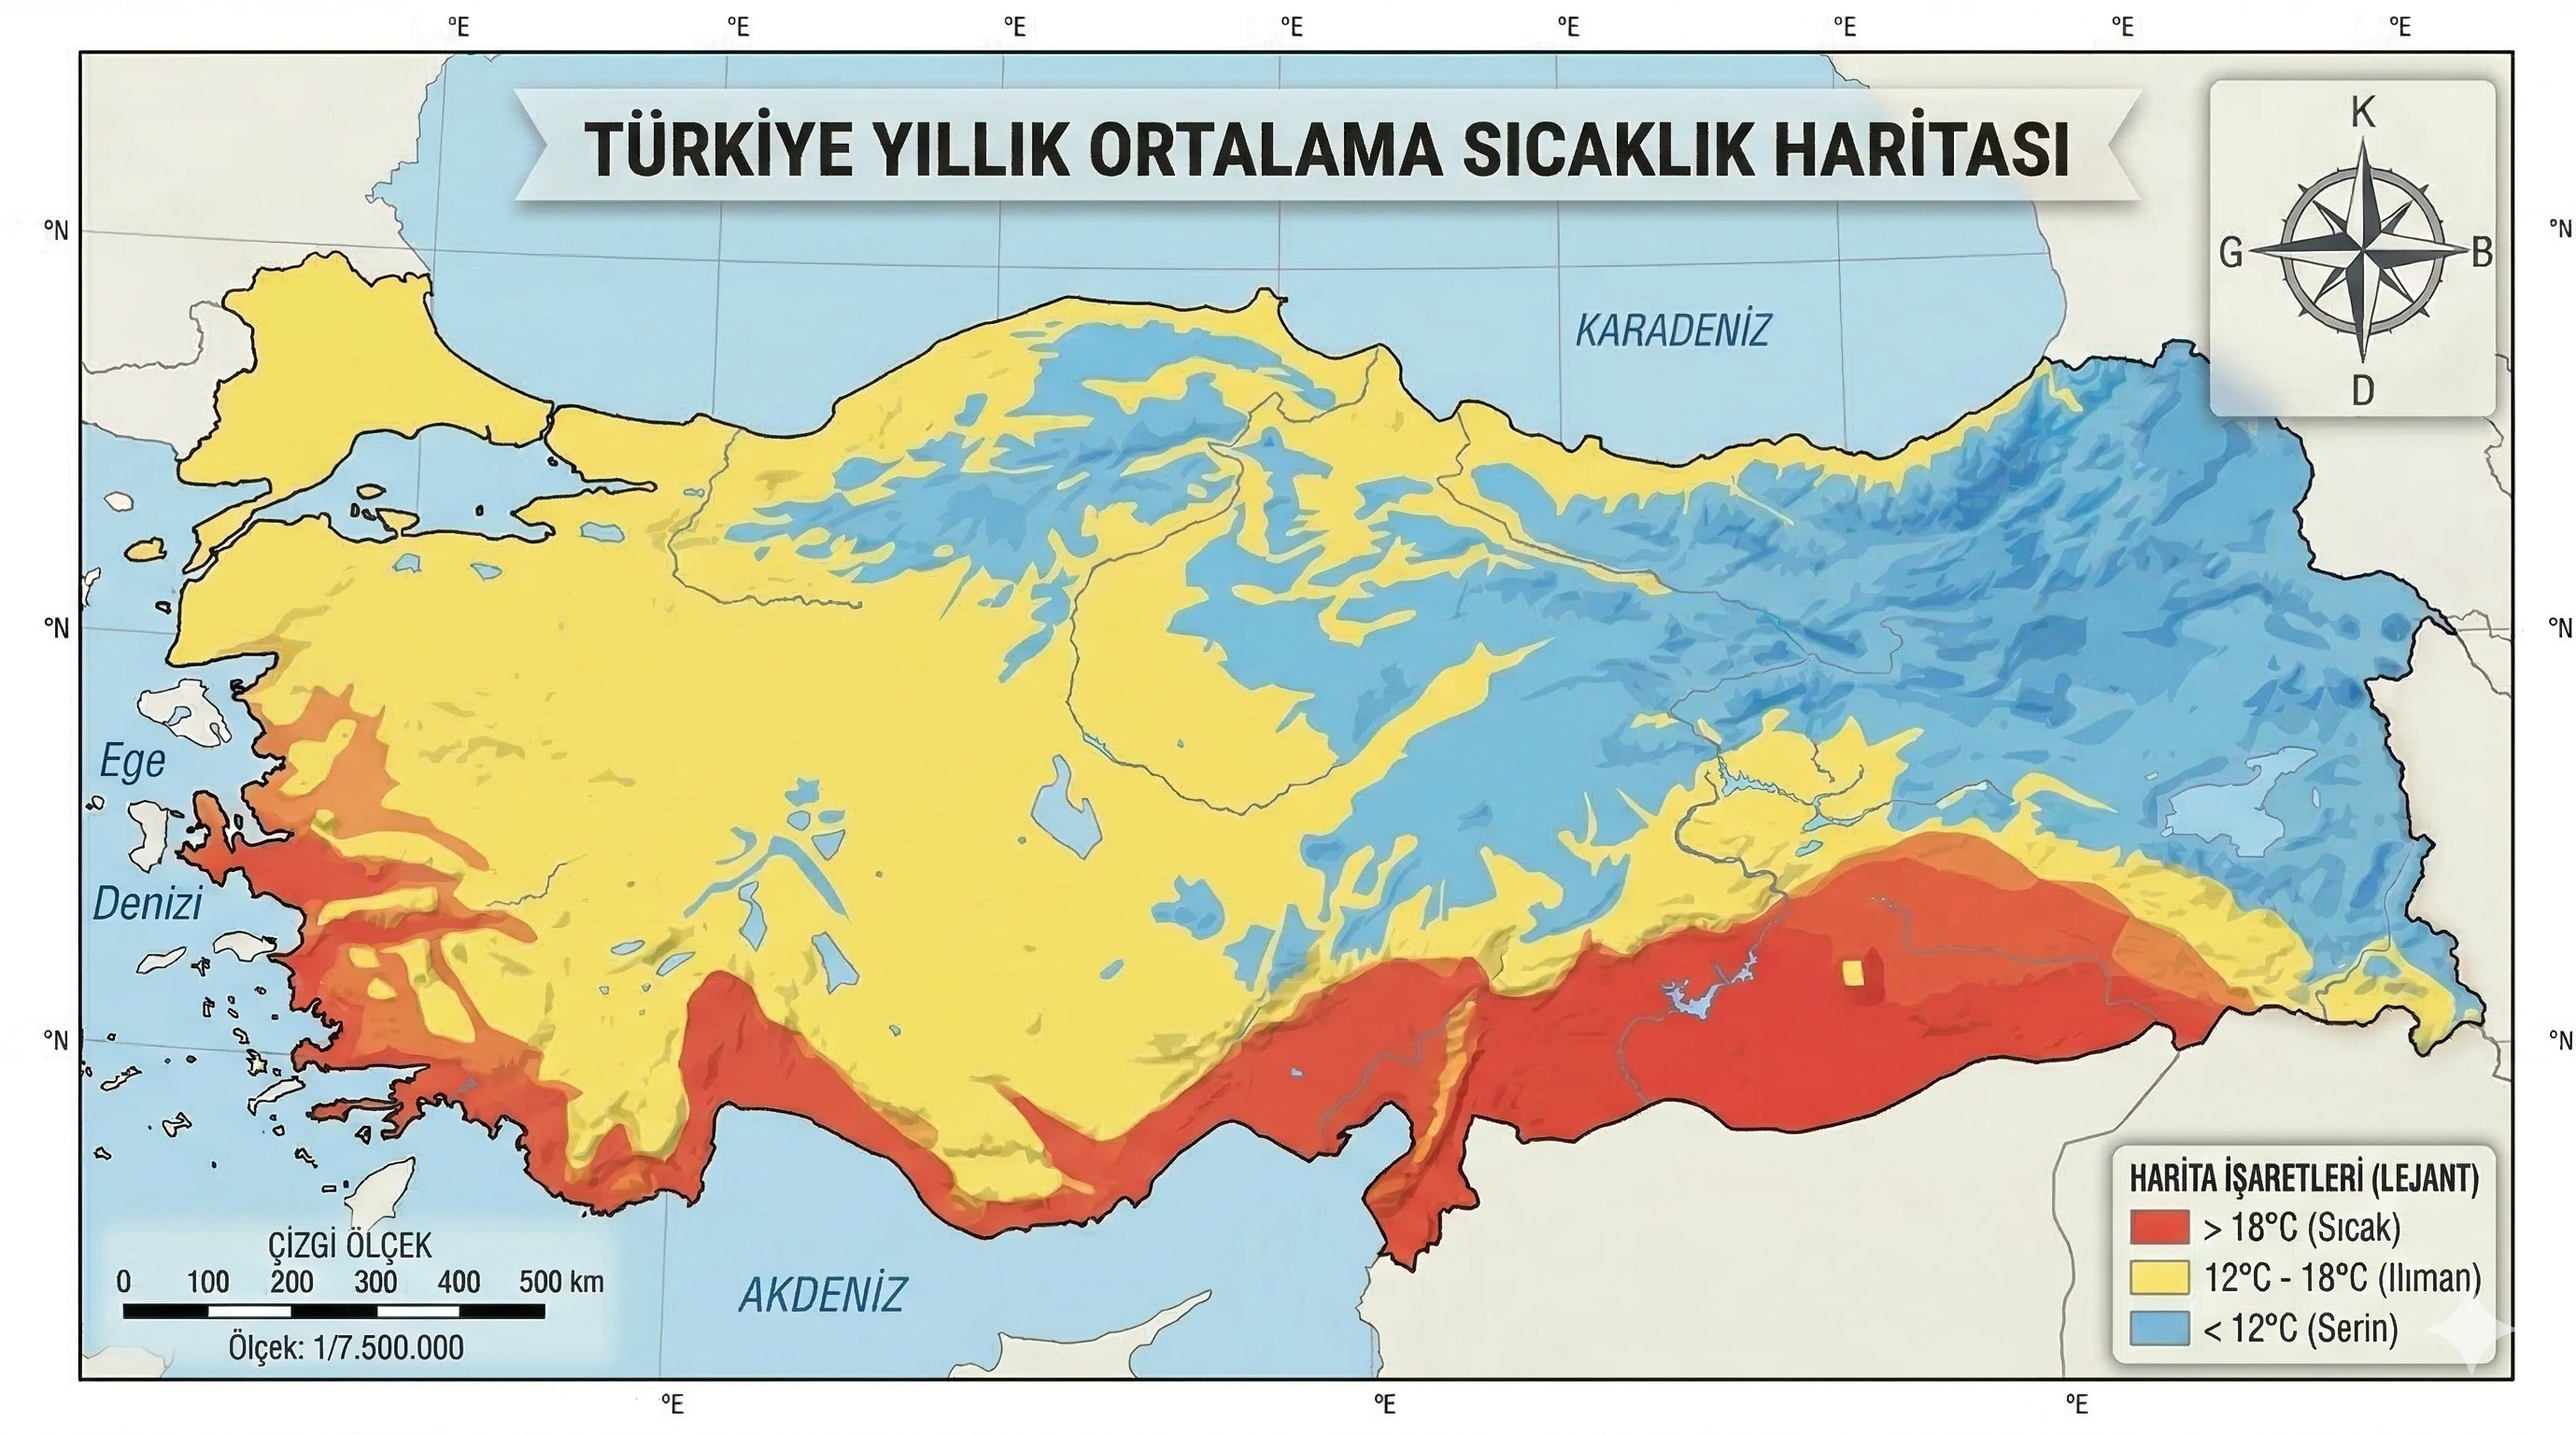
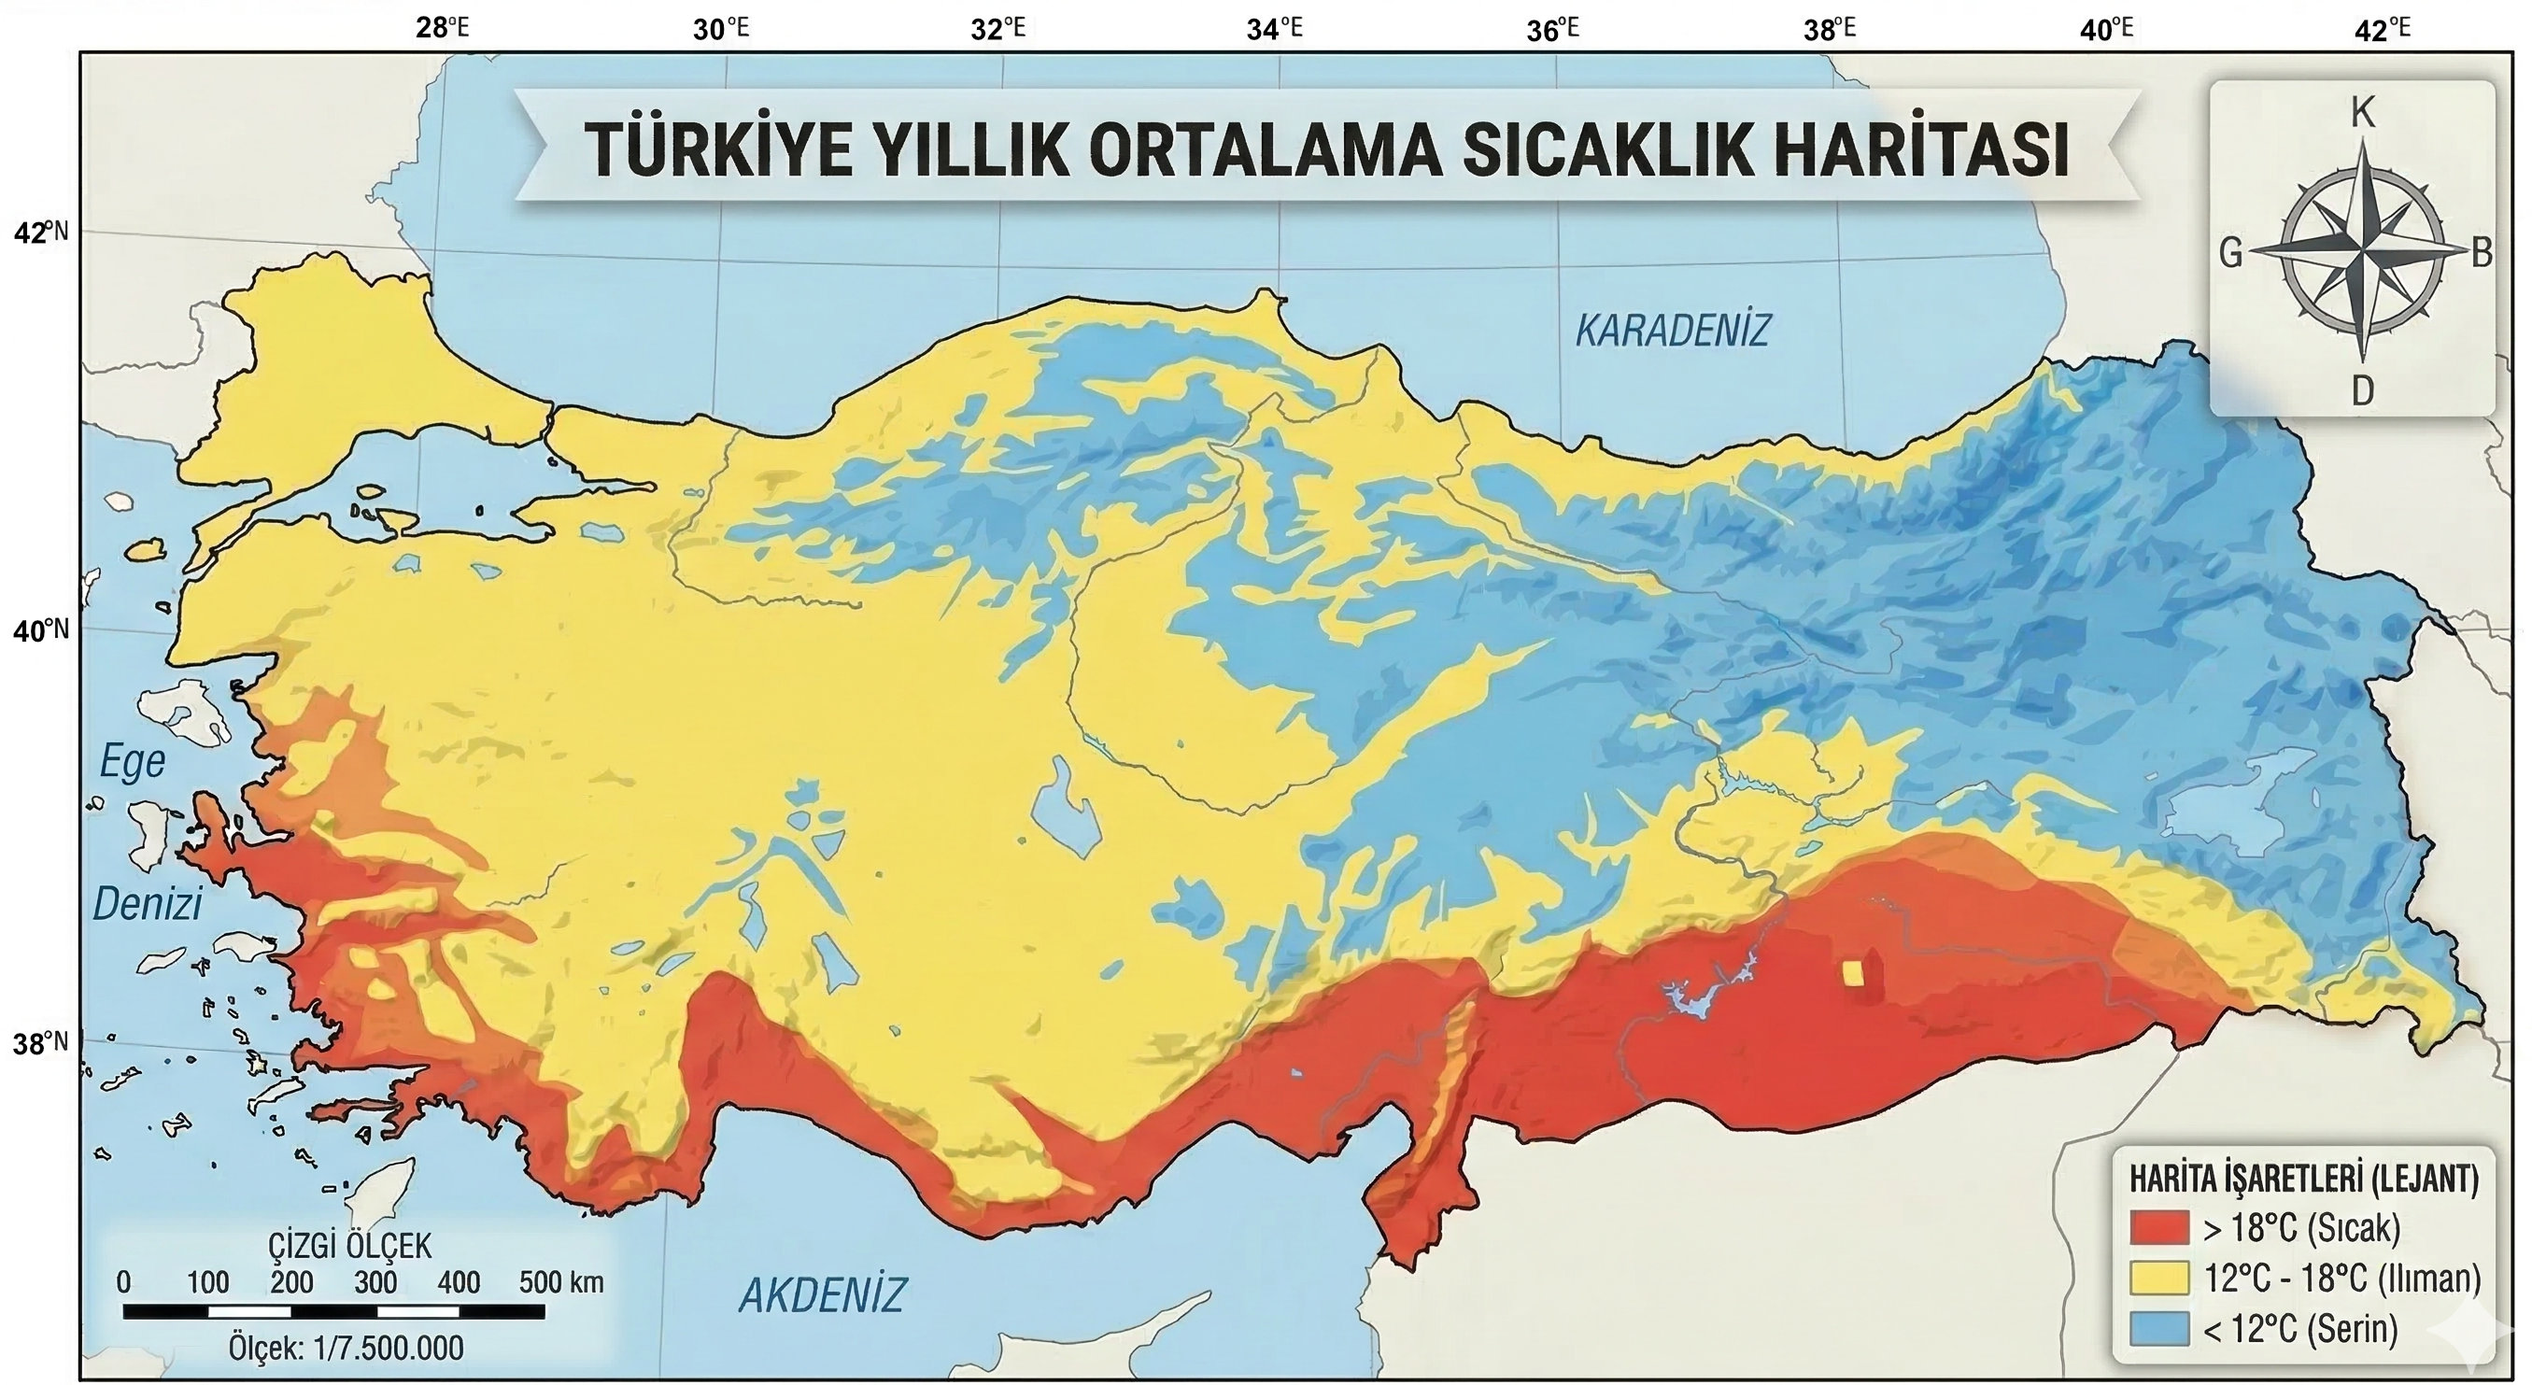
map

diff --git a/src/app/teacher/9/content/MapReadingActivity.tsx b/src/app/teacher/9/content/MapReadingActivity.tsx
@@ -116,7 +116,7 @@ const MapReadingActivity = ({ onClose }: MapReadingActivityProps) => {
             {/* 1. Hız ve Görüntü Optimizasyonu: Standart <img> yerine Next.js <Image /> bileşeni kullanıldı. */}
             <Image
               // Kritik Görüntü Yolu (src) güncellendi ve fill, priority, object-contain eklendi.
-              src="/9/harita/turkiye-fiziki.jpg"
+              src="/9/harita/map-sicaklik.jpg"
               alt="Türkiye Sıcaklık Haritası"
               fill
               priority
